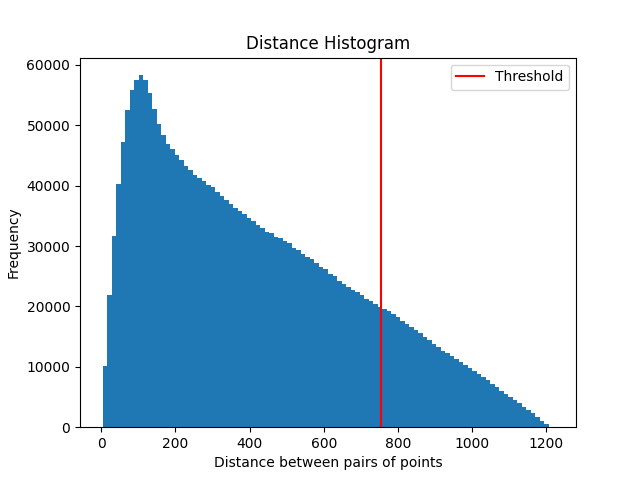
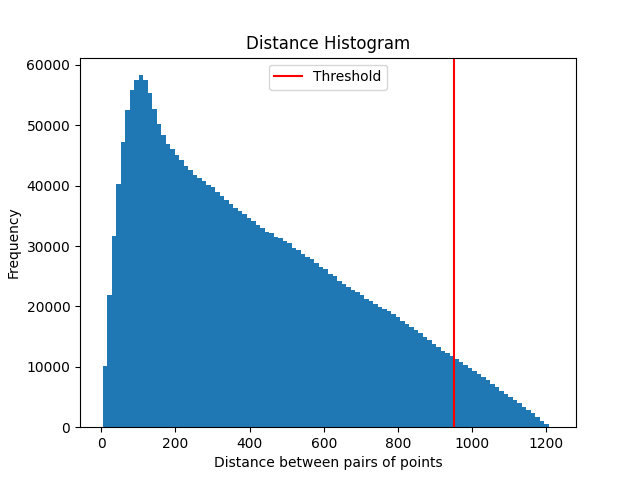
.

diff --git a/scrips/manual_clustering.py b/scrips/manual_clustering.py
@@ -110,7 +110,7 @@ for item in layer_0_results_d:
 
 
 #Choose threshold percentile
-pct_d = 85
+pct_d = 95
 
 threshold_distance = np.percentile(scores_0_d, pct_d)
 
@@ -133,7 +133,7 @@ for item in layer_0_results_a:
     scores_0_a.append(item[2])
 
 #Choose a threshold
-pct_a = 85
+pct_a = 95
 
 threshold_angle = np.percentile(scores_0_a, pct_a)
 
@@ -186,7 +186,7 @@ G_both.add_nodes_from([int(fid) for fid in fibre_ids])
 
 #Build graph directly from thresholds
 #Maximum physical interaction radius
-max_radius = 50
+max_radius = 25
 
 for i in range(len(fibre_ids)):
     fid_i = int(fibre_ids[i])
@@ -215,32 +215,11 @@ for i in range(len(fibre_ids)):
             combined_score = score_d + score_a
             similarity = 1 / (combined_score + 1e-12)
             G_both.add_edge(fid_i, fid_j, weight=similarity)
-"""
-knn_d = NearestNeighbors(n_neighbors=optimal_k, metric='precomputed')
-knn_d.fit(D_d)
 
-distances_d, indices_d = knn_d.kneighbors(D_d)
-
-for i in range(len(indices_d)):
-    fid_i = int(fibre_ids[i])
-
-    for jj in range(1, len(indices_d[i])):  #Skip self
-        neighbor_idx = indices_d[i, jj]
-        fid_j = int(fibre_ids[neighbor_idx])
-
-        score_d = D_d[i, neighbor_idx]
-        score_a = D_a[i, neighbor_idx]
-
-        if score_d <= threshold_distance and score_a <= threshold_angle:
-            combined_score = score_d + score_a
-            similarity = 1 / (combined_score + 1e-12)
-            G_both.add_edge(fid_i, fid_j, weight=similarity)
-
-"""
-            
 print("Combined graph nodes:", G_both.number_of_nodes())
 print("Combined graph edges:", G_both.number_of_edges())
 print("Isolated nodes:", len(list(nx.isolates(G_both))))
+
 #Create list for isolated nodes
 isolated_nodes = []
 for isol in nx.isolates(G_both):
@@ -250,10 +229,10 @@ print(isolated_nodes)
 G_cluster = G_both.copy()
 
 #Remove isolated fibres
-#G_cluster.remove_nodes_from(list(nx.isolates(G_cluster)))
+G_cluster.remove_nodes_from(list(nx.isolates(G_cluster)))
 
 #Creates clusters based on densely populated nodes
-communities = nx.community.greedy_modularity_communities(G_cluster, weight="weight", resolution=5, cutoff=10)
+communities = nx.community.greedy_modularity_communities(G_cluster, weight="weight", resolution=15, cutoff=10)
 clusters = [sorted(list(c)) for c in communities]
 
 #Remove tiny clusters
@@ -278,22 +257,28 @@ isolated_nodes = list(nx.isolates(G_both))
 for node in isolated_nodes:
     node_to_cluster[node] = -1  # Default cluster for isolated nodes
 
-#Assign a color to each cluster (including the default cluster)
-num_clusters = len(clusters)
-colors = plt.cm.tab20(np.linspace(0, 1, num_clusters + 1))  # +1 for the default cluster
 
-#Create a list of node colors based on their cluster
-node_colors = [colors[node_to_cluster[node]] for node in G_both.nodes()]
 
+# Assign colors
+num_clusters = max(node_to_cluster.values()) + 1
+colors = plt.cm.tab20(np.linspace(0, 1, num_clusters + 1))
+
+# Last color reserved for unclustered nodes
+default_cluster = num_clusters
+
+# Create node colors safely
+node_colors = [colors[node_to_cluster.get(node, default_cluster)] for node in G_both.nodes()]
 
 pos = {int(cleaned_data[i, 0]): (cleaned_data[i, 1], cleaned_data[i, 2]) for i in range(len(cleaned_data))}
 nx.draw(G_both, pos, node_size=8, width=0.2, alpha=0.5, with_labels=False)
 plt.title("Network plot")
+plt.axis('equal')
 plt.show()
 plt.savefig(f'Network plot.png')
 plt.close('all')
 nx.draw(G_both, pos, node_size=8, width=0, alpha=0.5, with_labels=False, node_color=node_colors)
 plt.title("Cluster plot")
+plt.axis('equal')
 plt.savefig(f'Cluster plot.png')
 plt.show()
 plt.close('all')
